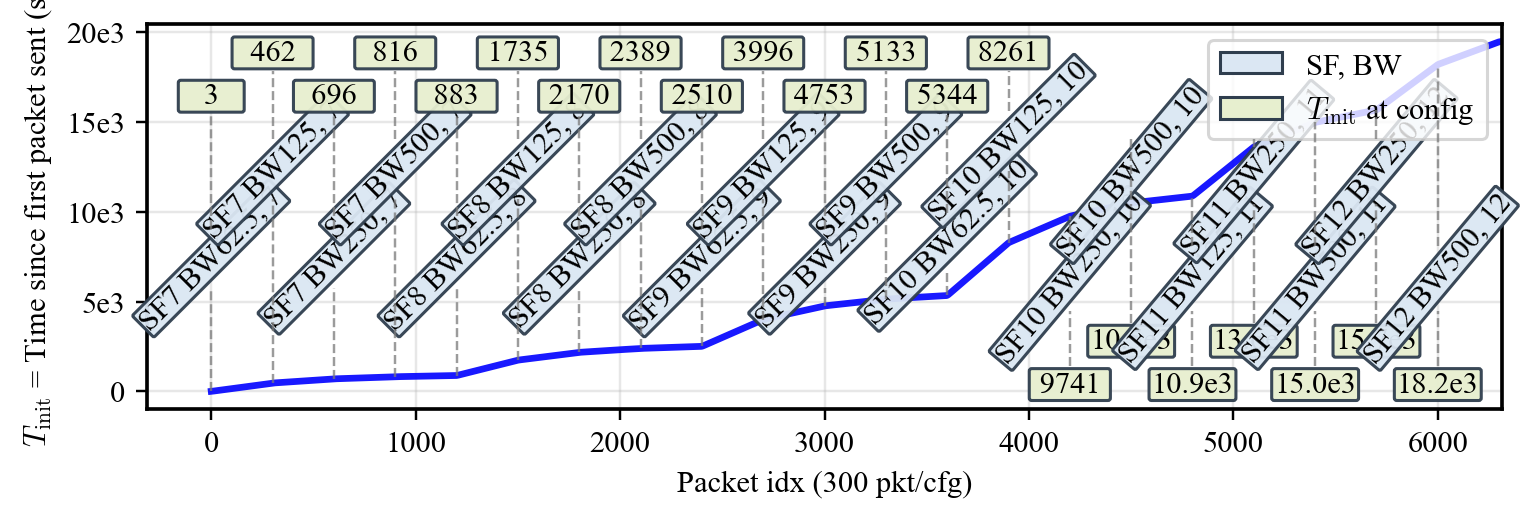
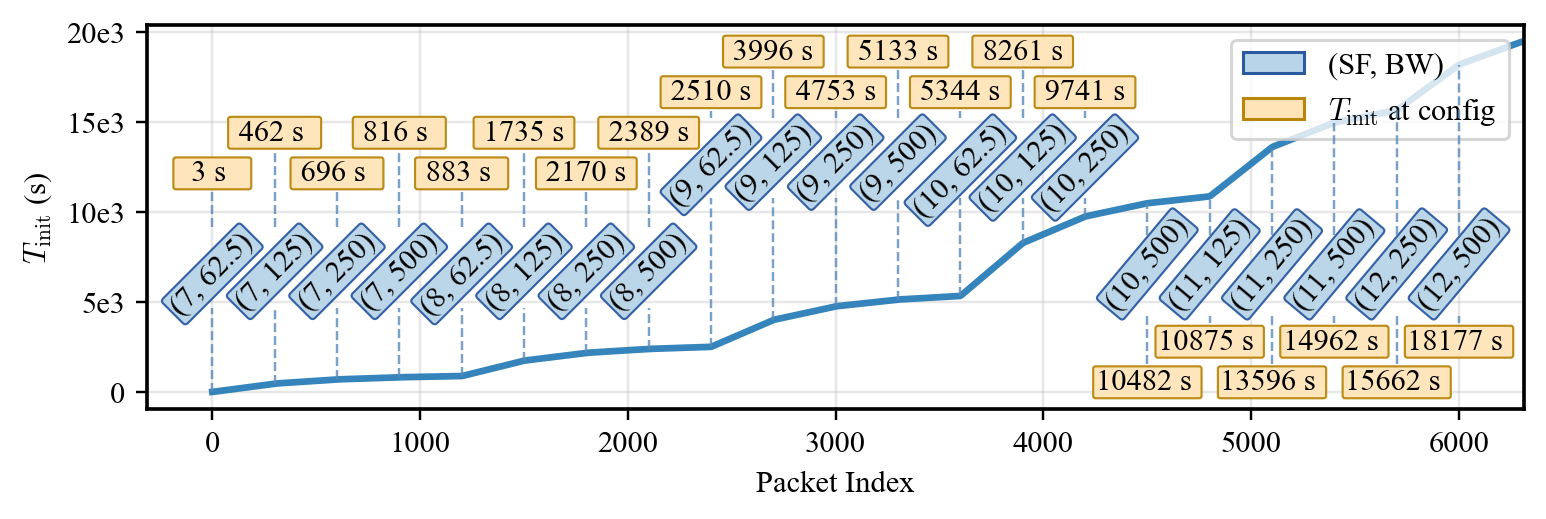
Update plot formatting and improve label representation in plot_time_since_boot.py; replace raw label format with tuple format and enhance visual styles for better clarity.

diff --git a/tools/plots/plot_time_since_boot.py b/tools/plots/plot_time_since_boot.py
@@ -72,11 +72,11 @@ def get_file_order():
 
 
 def format_sf_bw_label(raw_label):
-    """Convert 'SF7 BW62.5' or 'SF7_BW62.5' to '7, 62.5'."""
+    """Convert 'SF7 BW62.5' or 'SF7_BW62.5' to '(7, 62.5)' (numbers only)."""
     s = raw_label.replace("_", " ")
-    m = re.match(r"(SF(\d+)\s*BW([\d.]+))", s)
+    m = re.match(r"SF(\d+)\s*BW([\d.]+)", s)
     if m:
-        return f"{m.group(1)}, {m.group(2)}"
+        return f"({m.group(1)}, {m.group(2)})"
     return s
 
 
@@ -241,16 +241,13 @@ def main():
         sigma = min(5, max(1, len(avg_times) // 100))
         times_smooth = gaussian_smooth(avg_times, sigma=sigma)
 
-        xtick_positions = [0] + [p for p, _, _ in sf_bw_changes]
-        xtick_labels = [l.replace("_", " ") for l in ["SF7_BW62.5"] + [lbl for _, lbl, _ in sf_bw_changes]]
-
         # Combined plot v3: packet index on X-axis, dotted lines from curve up, labels black and rotated
         FONTSIZE = IEEE_FONTSIZE
         dotted_positions = [0] + [p for p, _, _ in sf_bw_changes]
         fig4, ax4 = plt.subplots(figsize=FIGSIZE_TWO_COL)
-        ax4.plot(indices_avg, times_smooth / 1000, "b-", linewidth=2.2, alpha=0.9)
-        ax4.set_xlabel("Packet idx (300 pkt/cfg)", fontsize=FONTSIZE)
-        ax4.set_ylabel(r"$T_{\mathrm{init}}$ = Time since first packet sent (s)", fontsize=FONTSIZE)
+        ax4.plot(indices_avg, times_smooth / 1000, color="#1f77b4", linewidth=2.2, alpha=0.9)
+        ax4.set_xlabel("Packet Index", fontsize=FONTSIZE)
+        ax4.set_ylabel(r"$T_{\mathrm{init}}$ (s)", fontsize=FONTSIZE)
         ax4.tick_params(axis="both", labelsize=FONTSIZE)
         xmax = ax4.get_xlim()[1]
         ax4.set_xlim(xmax=xmax - 300)
@@ -259,125 +256,111 @@ def main():
         ymax = ax4.get_ylim()[1]
         ymin = ax4.get_ylim()[0]
         y_range = ymax - ymin
+        min_width_cfg = 6
+        min_width_ts = 8
         cfg_box_style = dict(
-            boxstyle="round,pad=0.06",
-            facecolor="#dbe7f3",
-            edgecolor="#2f3e4e",
-            linewidth=1.0,
+            boxstyle="round,pad=0.06,rounding_size=0.5",
+            facecolor="#b8d4e8",
+            edgecolor="#2c5aa0",
+            linewidth=0.7,
             alpha=0.95,
         )
         ts_box_style = dict(
-            boxstyle="round,pad=0.08",
-            facecolor="#e7efcf",
-            edgecolor="#2f3e4e",
-            linewidth=1.0,
+            boxstyle="round,pad=0.12",
+            facecolor="#ffe4b8",
+            edgecolor="#b8860b",
+            linewidth=0.9,
             alpha=0.95,
         )
-        connector_style = dict(color="#7a7a7a", linestyle="--", linewidth=0.8, alpha=0.75, zorder=10)
-        cfg_rotation_above = 45
-        cfg_rotation_below = 50
+        connector_style = dict(color="#5a8ab8", linestyle="--", linewidth=0.8, alpha=0.8, zorder=1)
+        cfg_rotation_above = 0
+        cfg_rotation_below = 0
 
         def measure_box_height(sample_text, rotation, bbox_style):
             probe = ax4.text(
-                0,
-                0,
-                sample_text,
-                fontsize=FONTSIZE,
-                rotation=rotation,
-                va="center",
-                ha="center",
-                transform=ax4.transData,
-                bbox=bbox_style,
+                0, 0, sample_text, fontsize=FONTSIZE, rotation=rotation,
+                va="center", ha="center", transform=ax4.transData, bbox=bbox_style,
             )
             fig4.canvas.draw()
             bbox = probe.get_window_extent(renderer=fig4.canvas.get_renderer()).transformed(ax4.transData.inverted())
             probe.remove()
             return abs(bbox.height)
 
-        config_text_height_above = measure_box_height("7, 62.5", cfg_rotation_above, cfg_box_style)
-        config_text_height_below = measure_box_height("12, 500", cfg_rotation_below, cfg_box_style)
-        timestamp_text_height = measure_box_height("20.0e3", 0, ts_box_style)
+        ts_box_height = measure_box_height("20000 s".center(min_width_ts + 2), 0, ts_box_style)
+        cfg_box_height = measure_box_height("(7, 62.5)".center(min_width_cfg), 0, cfg_box_style)
+        spacing = max(0.04 * y_range, 0.65 * ts_box_height)
 
-        top_margin = 0.04 * y_range
-        bottom_margin = 0.04 * y_range
-        row_gap = max(0.02 * y_range, 0.55 * timestamp_text_height)
-        block_gap = max(0.03 * y_range, 0.75 * timestamp_text_height)
-        ts_line_end_offset_above = 0.18 * timestamp_text_height
-        ts_line_start_offset_below = 0.18 * timestamp_text_height
-
-        y_ts_odd_above = ymax - top_margin - 0.5 * timestamp_text_height
-        y_ts_even_above = y_ts_odd_above - (timestamp_text_height + row_gap)
-        y_cfg_odd_above = y_ts_even_above - (0.5 * timestamp_text_height + 0.5 * config_text_height_above + block_gap)
-        y_cfg_even_above = y_cfg_odd_above - (config_text_height_above + row_gap)
-
-        y_ts_even_below = ymin + bottom_margin + 0.5 * timestamp_text_height
-        y_ts_odd_below = y_ts_even_below + (timestamp_text_height + row_gap)
-        y_cfg_even_below = y_ts_odd_below + (0.5 * timestamp_text_height + 0.5 * config_text_height_below + block_gap)
-        y_cfg_odd_below = y_cfg_even_below + (config_text_height_below + row_gap)
-
-        above_ts_shift = max(0.02 * y_range, 0.45 * timestamp_text_height)
-        below_ts_shift = max(0.015 * y_range, 0.30 * timestamp_text_height)
-        below_cfg_drop_even = max(0.025 * y_range, 0.22 * config_text_height_below)
-        below_cfg_drop_odd = max(0.015 * y_range, 0.10 * config_text_height_below)
-        last_above_cfg_raise = 0.38 * config_text_height_above
-        second_last_above_cfg_raise = 0.22 * config_text_height_above
-
-        y_ts_odd_above -= above_ts_shift
-        y_ts_even_above -= above_ts_shift
-        y_ts_odd_below += below_ts_shift
-        y_ts_even_below += below_ts_shift
-        y_cfg_even_below -= below_cfg_drop_even
-        y_cfg_odd_below -= below_cfg_drop_odd
         n_configs = len(dotted_positions)
-        half = n_configs // 2 + 4  # move one more from below to above
+        half = 15  # cfg/ts 0-14 above curve, 15-21 below
         dotted_with_labels = list(zip(dotted_positions, [format_sf_bw_label(l) for l in ["SF7_BW62.5"] + [lbl for _, lbl, _ in sf_bw_changes]]))
+
+        ts1_even = ymax - spacing - ts_box_height
+        ts1_odd = ts1_even - ts_box_height - spacing
+        cfg1_7 = ts1_odd - spacing
+        ts2_even = ts1_even
+        ts2_odd = ts1_odd
+        cfg8_15 = cfg1_7
+        ts3_odd = ymin + spacing + ts_box_height
+        ts3_even = ts3_odd + spacing + ts_box_height
+        cfg_even_below = ts3_even + spacing
+        cfg_odd_below = cfg_even_below + cfg_box_height + spacing
+
+        cfg_even_off = cfg_box_height + spacing
+        y_cfg = []
+        y_ts = []
+        for i in range(n_configs):
+            if i < 7:
+                y_ts.append(ts1_odd if i % 2 == 1 else ts1_even)
+                y_cfg.append(cfg1_7 - cfg_even_off if i % 2 == 1 else cfg1_7)
+            elif i < 8:
+                y_ts.append(ts1_odd if i % 2 == 1 else ts1_even)
+                y_cfg.append(cfg1_7 - cfg_even_off if i % 2 == 1 else cfg1_7)
+            elif i < 15:
+                y_ts.append(ts2_odd if i % 2 == 1 else ts2_even)
+                y_cfg.append(cfg8_15 - cfg_even_off if i % 2 == 1 else cfg8_15)
+            else:
+                y_ts.append(ts3_odd if i % 2 == 1 else ts3_even)
+                y_cfg.append(cfg_even_below if i % 2 == 1 else cfg_odd_below)
+
+        max_ts_width = max(
+            len(f"{np.interp(pkt_idx, indices_avg, times_smooth / 1000):.0f} s")
+            for pkt_idx, _ in dotted_with_labels
+        )
+        ts_line_off = 0.18 * ts_box_height
         for i, (pkt_idx, label) in enumerate(dotted_with_labels):
             y_at_curve = np.interp(pkt_idx, indices_avg, times_smooth / 1000)
-            if y_at_curve >= 10000:
-                ts_str = f"{y_at_curve/1000:.1f}e3"
-            elif y_at_curve < 100:
-                ts_str = f"   {y_at_curve:.0f}   "
-            elif y_at_curve < 1000:
-                ts_str = f"  {y_at_curve:.0f}  "
-            else:
-                ts_str = f" {y_at_curve:.0f} "
+            label_padded = label.center(max(min_width_cfg, len(label)))
+            ts_raw = f"{y_at_curve:.0f} s"
+            ts_str = ts_raw.center(max_ts_width)
             if i < half:
-                y_label = y_cfg_odd_above if i % 2 == 1 else y_cfg_even_above
-                if i == half - 1:
-                    y_label += last_above_cfg_raise
-                elif i == half - 2:
-                    y_label += second_last_above_cfg_raise
-                y_end = y_ts_odd_above if i % 2 == 1 else y_ts_even_above
-                cfg_lo = y_label - config_text_height_above * 0.4
-                cfg_hi = y_label + config_text_height_above * 0.4
-                y_line_end = y_end - ts_line_end_offset_above
+                cfg_lo = y_cfg[i] - cfg_box_height * 0.92
+                cfg_hi = y_cfg[i]
+                y_line_end = y_ts[i] - ts_line_off
                 ax4.plot([pkt_idx, pkt_idx], [y_at_curve, cfg_lo], **connector_style)
                 ax4.plot([pkt_idx, pkt_idx], [cfg_hi, y_line_end], **connector_style)
-                ax4.text(pkt_idx, y_label, label, fontsize=FONTSIZE, rotation=cfg_rotation_above, va="center", ha="center", color="black",
-                         bbox=cfg_box_style)
-                ax4.text(pkt_idx, y_end, ts_str, fontsize=FONTSIZE, va="bottom", ha="center", color="black",
-                         bbox=ts_box_style)
+                ax4.text(pkt_idx, y_cfg[i], label_padded, fontsize=FONTSIZE, rotation=cfg_rotation_above, va="top", ha="center", color="black",
+                         bbox=cfg_box_style, zorder=15)
+                ax4.text(pkt_idx, y_ts[i], ts_str, fontsize=FONTSIZE, va="bottom", ha="center", color="black",
+                         bbox=ts_box_style, zorder=15)
             else:
-                y_label = y_cfg_odd_below if i % 2 == 1 else y_cfg_even_below
-                y_end = y_ts_odd_below if i % 2 == 1 else y_ts_even_below
-                cfg_lo = y_label - config_text_height_below * 0.4
-                cfg_hi = y_label + config_text_height_below * 0.4
-                y_line_start = y_end + ts_line_start_offset_below
+                cfg_lo = y_cfg[i]
+                cfg_hi = y_cfg[i] + cfg_box_height * 0.92
+                y_line_start = y_ts[i] + ts_line_off
                 ax4.plot([pkt_idx, pkt_idx], [y_line_start, cfg_lo], **connector_style)
                 ax4.plot([pkt_idx, pkt_idx], [cfg_hi, y_at_curve], **connector_style)
-                ax4.text(pkt_idx, y_label, label, fontsize=FONTSIZE, rotation=cfg_rotation_below, va="center", ha="center", color="black",
-                         bbox=cfg_box_style)
-                ax4.text(pkt_idx, y_end, ts_str, fontsize=FONTSIZE, va="top", ha="center", color="black",
-                         bbox=ts_box_style)
+                ax4.text(pkt_idx, y_cfg[i], label_padded, fontsize=FONTSIZE, rotation=cfg_rotation_below, va="bottom", ha="center", color="black",
+                         bbox=cfg_box_style, zorder=15)
+                ax4.text(pkt_idx, y_ts[i], ts_str, fontsize=FONTSIZE, va="top", ha="center", color="black",
+                         bbox=ts_box_style, zorder=15)
         legend_elements = [
-            Patch(facecolor=cfg_box_style["facecolor"], edgecolor=cfg_box_style["edgecolor"], label="SF, BW"),
+            Patch(facecolor=cfg_box_style["facecolor"], edgecolor=cfg_box_style["edgecolor"], label="(SF, BW)"),
             Patch(facecolor=ts_box_style["facecolor"], edgecolor=ts_box_style["edgecolor"], label=r"$T_{\mathrm{init}}$ at config"),
         ]
         ax4.legend(handles=legend_elements, loc="upper right", fontsize=FONTSIZE)
         fig4.tight_layout()
-        fig4.savefig(os.path.join(out_dir, "raw_time_since_transmission_init_combined_v3.png"), dpi=220, bbox_inches="tight")
+        fig4.savefig(os.path.join(out_dir, "raw_time_since_transmission_init_combined_v4.png"), dpi=220, bbox_inches="tight")
         plt.close()
-        print("Saved: raw_time_since_transmission_init_combined_v3.png")
+        print("Saved: raw_time_since_transmission_init_combined_v4.png")
         # Save CSV to parent folder (raw_test_data_plots) to avoid breaking other scripts
         csv_dir = os.path.join(WORKSPACE, "results", "raw_test_data_plots")
         csv_path = os.path.join(csv_dir, "config_change_T_init.csv")

diff --git a/.cursor/commands/run-active-file.md b/.cursor/commands/run-active-file.md
@@ -1,0 +1,5 @@
+# run-active-file
+
+Write your command content here.
+
+This command will be available in chat with /run-active-file
